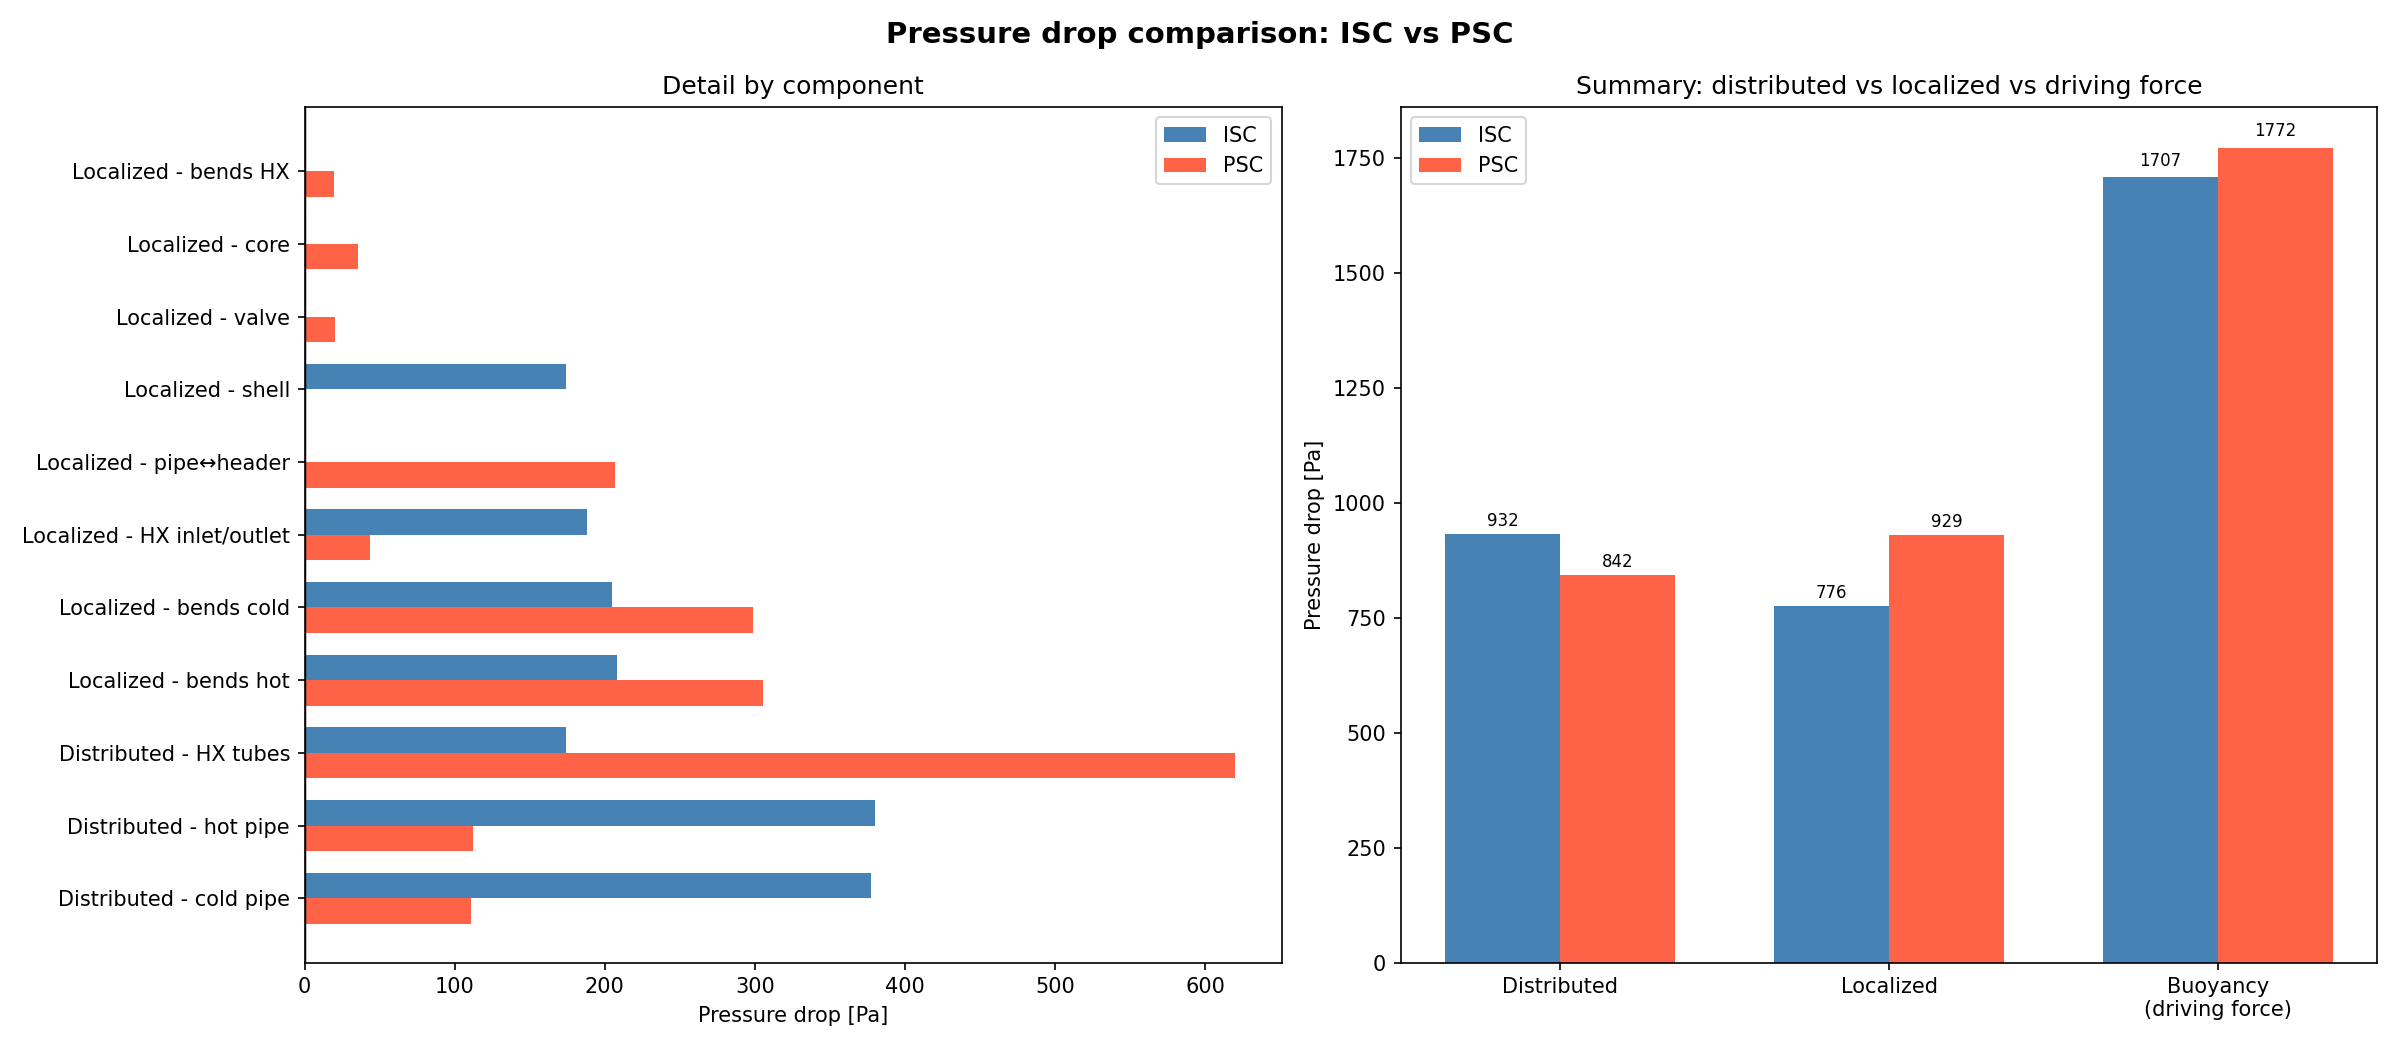
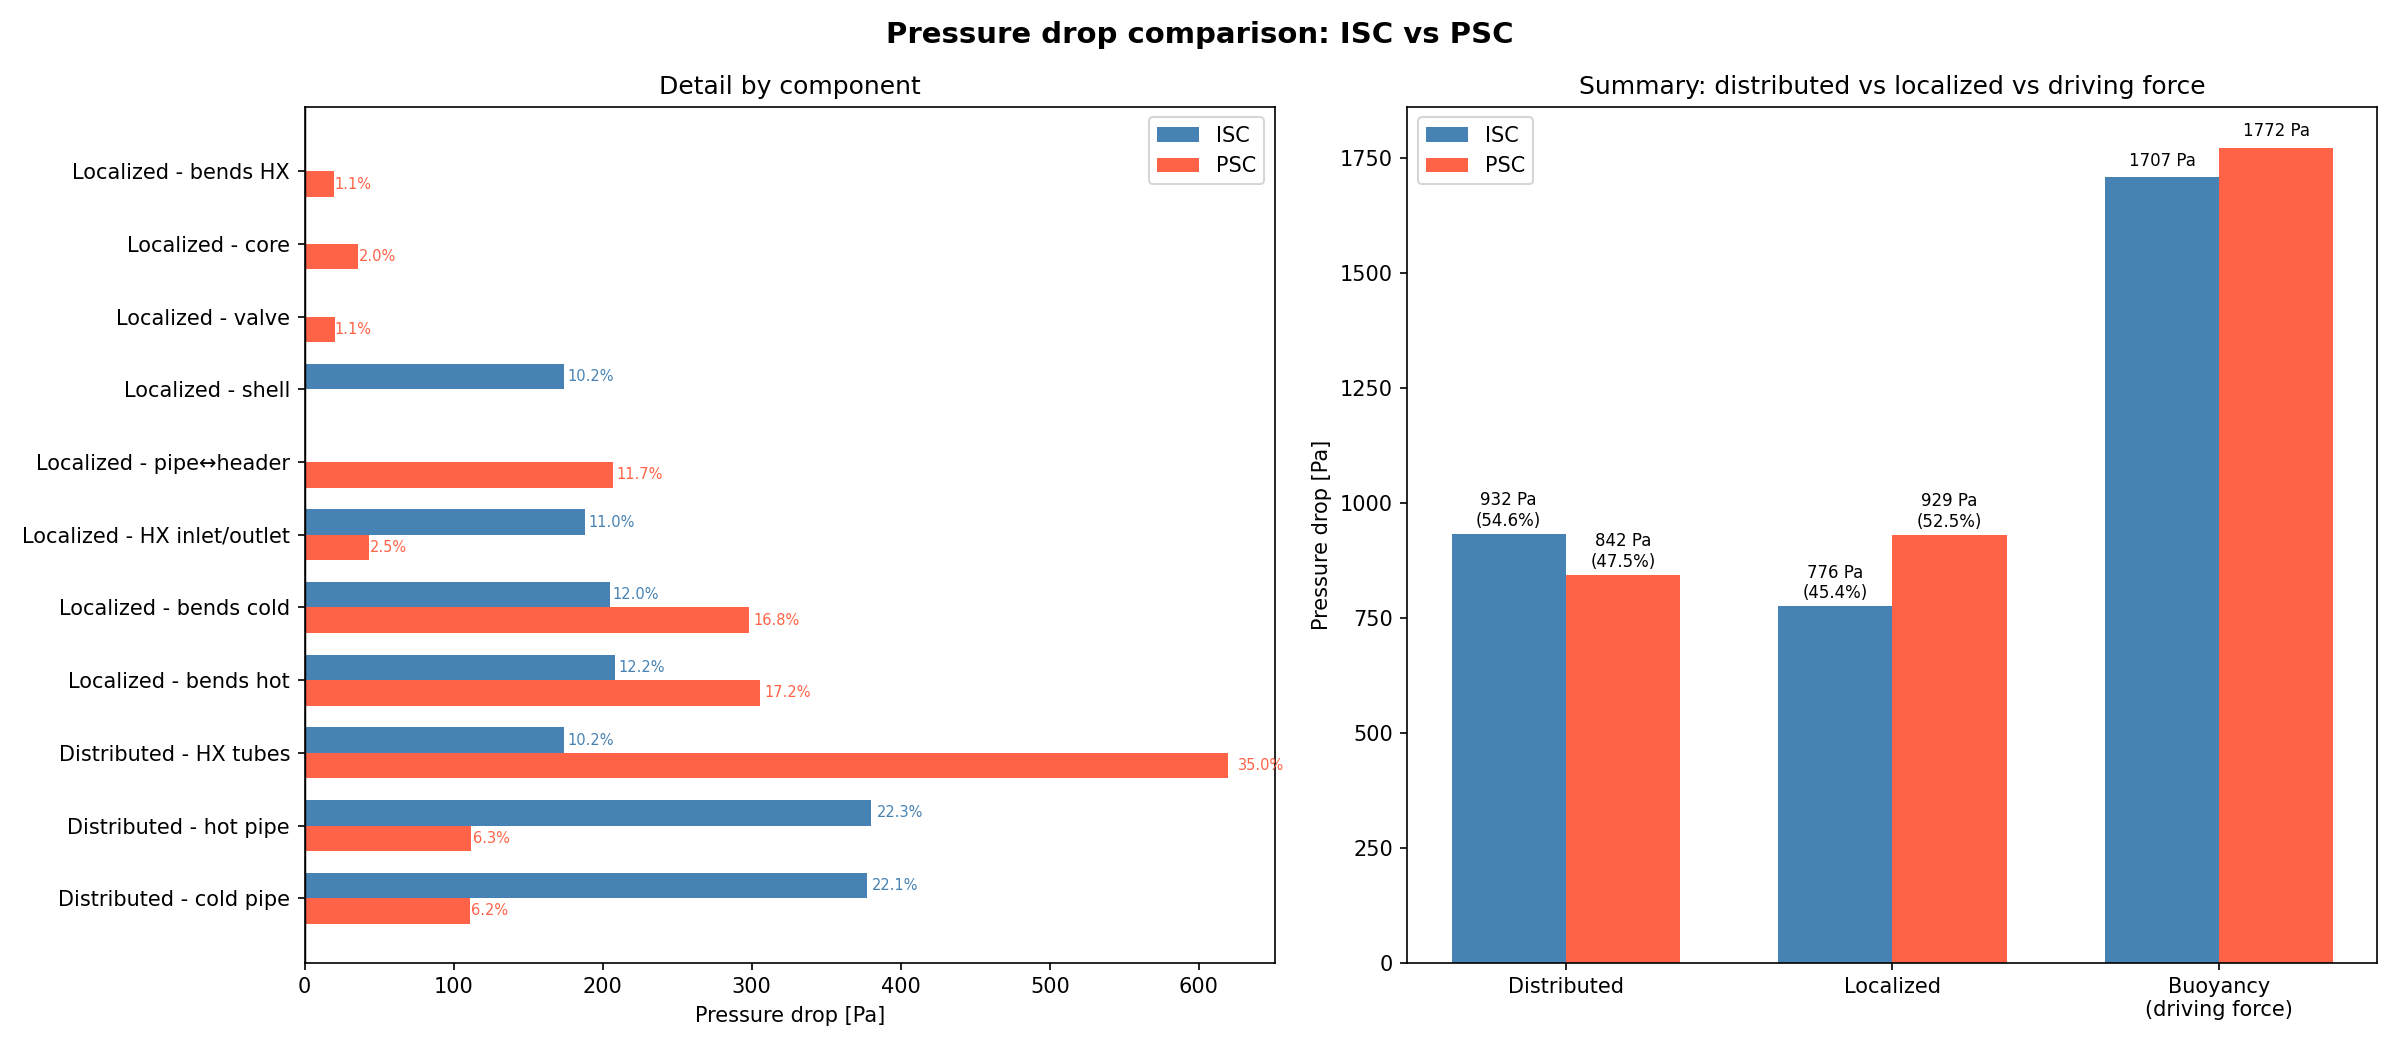
istogrammi con percentuali

diff --git a/assignment1/project2.py b/assignment1/project2.py
@@ -422,6 +422,9 @@ def plot_pressure_drops(dp_dict_ISC, m_ISC, dist_ISC, loc_ISC, dp_b_ISC,
     vals_ISC = [dp_dict_ISC[k] * m_ISC**2 for k in keys]
     vals_PSC = [dp_dict_PSC[k] * m_PSC**2 for k in keys]
 
+    total_ISC = dist_ISC + loc_ISC
+    total_PSC = dist_PSC + loc_PSC
+
     color_ISC, color_PSC = 'steelblue', 'tomato'
 
     fig, (ax1, ax2) = plt.subplots(1, 2, figsize=(16, 7))
@@ -430,14 +433,26 @@ def plot_pressure_drops(dp_dict_ISC, m_ISC, dist_ISC, loc_ISC, dp_b_ISC,
     # --- Grafico 1: dettaglio per componente (barre orizzontali) ---
     y = np.arange(len(keys))
     h = 0.35
-    ax1.barh(y + h/2, vals_ISC, h, label='ISC', color=color_ISC)
-    ax1.barh(y - h/2, vals_PSC, h, label='PSC', color=color_PSC)
+    bars_h_ISC = ax1.barh(y + h/2, vals_ISC, h, label='ISC', color=color_ISC)
+    bars_h_PSC = ax1.barh(y - h/2, vals_PSC, h, label='PSC', color=color_PSC)
     ax1.set_yticks(y)
     ax1.set_yticklabels(labels)
     ax1.set_xlabel('Pressure drop [Pa]')
     ax1.set_title('Detail by component')
     ax1.axvline(0, color='black', linewidth=0.7)
     ax1.legend()
+    # Percentuali sui bar ISC
+    for bar, val in zip(bars_h_ISC, vals_ISC):
+        if val > 0:
+            pct = val / total_ISC * 100
+            ax1.text(bar.get_width() * 1.01, bar.get_y() + bar.get_height() / 2,
+                     f'{pct:.1f}%', va='center', ha='left', fontsize=7, color='steelblue')
+    # Percentuali sui bar PSC
+    for bar, val in zip(bars_h_PSC, vals_PSC):
+        if val > 0:
+            pct = val / total_PSC * 100
+            ax1.text(bar.get_width() * 1.01, bar.get_y() + bar.get_height() / 2,
+                     f'{pct:.1f}%', va='center', ha='left', fontsize=7, color='tomato')
 
     # --- Grafico 2: riepilogo aggregato ---
     categories = ['Distributed', 'Localized', 'Buoyancy\n(driving force)']
@@ -453,13 +468,19 @@ def plot_pressure_drops(dp_dict_ISC, m_ISC, dist_ISC, loc_ISC, dp_b_ISC,
     ax2.set_ylabel('Pressure drop [Pa]')
     ax2.set_title('Summary: distributed vs localized vs driving force')
     ax2.legend()
-    # Aggiunge i valori sopra le barre
-    for bar in bars_ISC:
+    # Valori assoluti + percentuale (solo per distributed e localized)
+    for i, bar in enumerate(bars_ISC):
+        label = f'{bar.get_height():.0f} Pa'
+        if i < 2:  # distributed e localized
+            label += f'\n({bar.get_height() / total_ISC * 100:.1f}%)'
         ax2.text(bar.get_x() + bar.get_width()/2, bar.get_height() * 1.01,
-                 f'{bar.get_height():.0f}', ha='center', va='bottom', fontsize=8)
-    for bar in bars_PSC:
+                 label, ha='center', va='bottom', fontsize=8)
+    for i, bar in enumerate(bars_PSC):
+        label = f'{bar.get_height():.0f} Pa'
+        if i < 2:
+            label += f'\n({bar.get_height() / total_PSC * 100:.1f}%)'
         ax2.text(bar.get_x() + bar.get_width()/2, bar.get_height() * 1.01,
-                 f'{bar.get_height():.0f}', ha='center', va='bottom', fontsize=8)
+                 label, ha='center', va='bottom', fontsize=8)
 
     plt.tight_layout()
     out_path = os.path.join(out_dir, 'pressure_drops_comparison.png')
@@ -648,12 +669,6 @@ plot_convergence(history_m_ISC, history_T_av_ISC, history_m_PSC, history_T_av_PS
 plot_temperature_summary(
     T_c_res_ISC, T_av_res_ISC, T_h_res_ISC, T_sat_ISC,
     T_c_res_PSC, T_av_res_PSC, T_h_res_PSC, T_sat_PSC,
-    out_dir
-)
-
-plot_pressure_drop_pies(
-    dp_dict_res_ISC, m_res_ISC,
-    dp_dict_res_PSC, m_res_PSC,
     out_dir
 )
 
